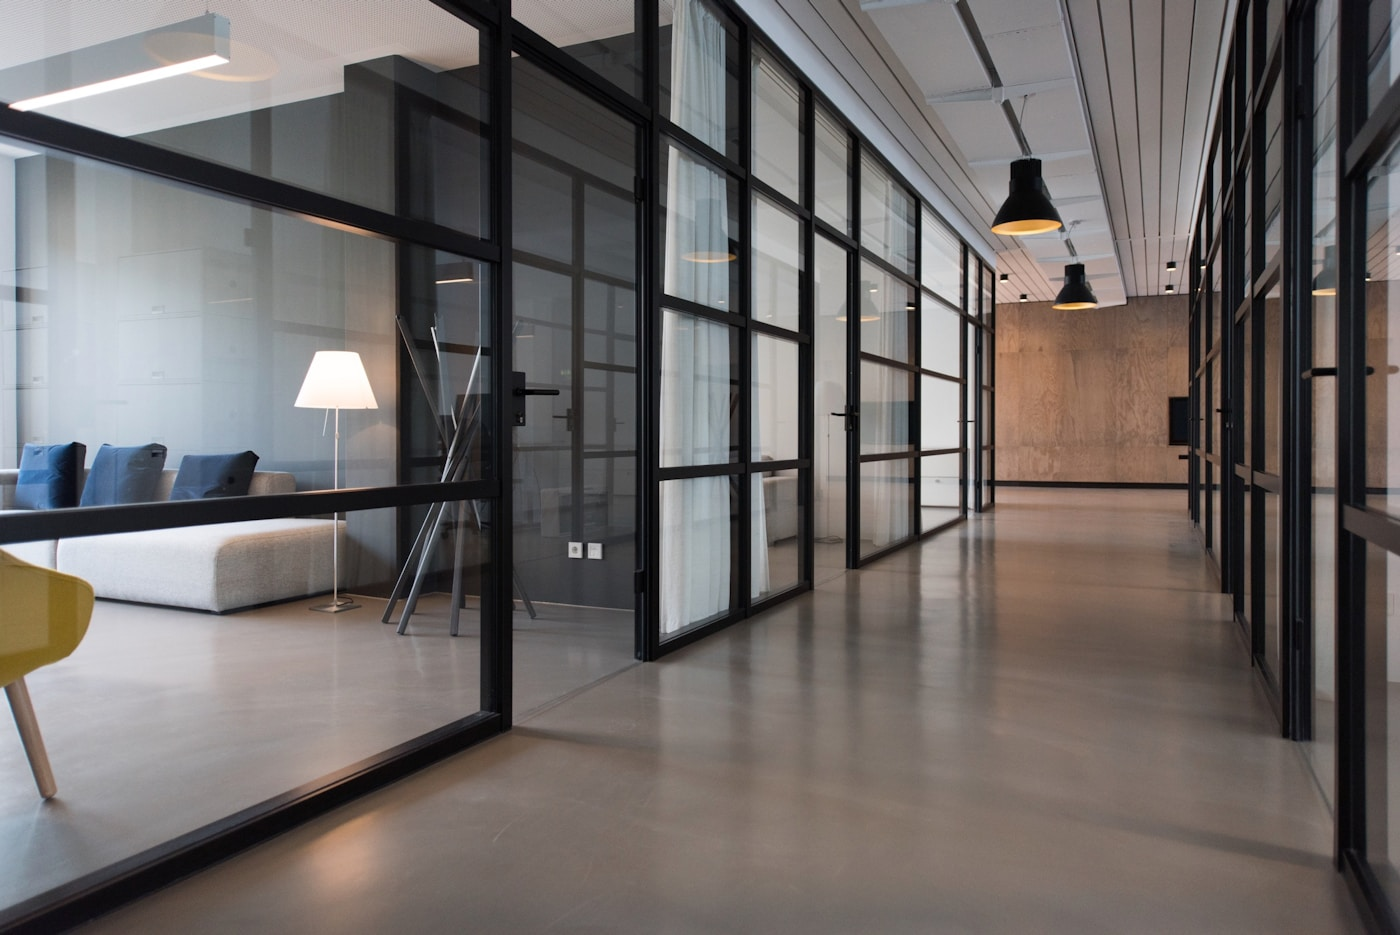
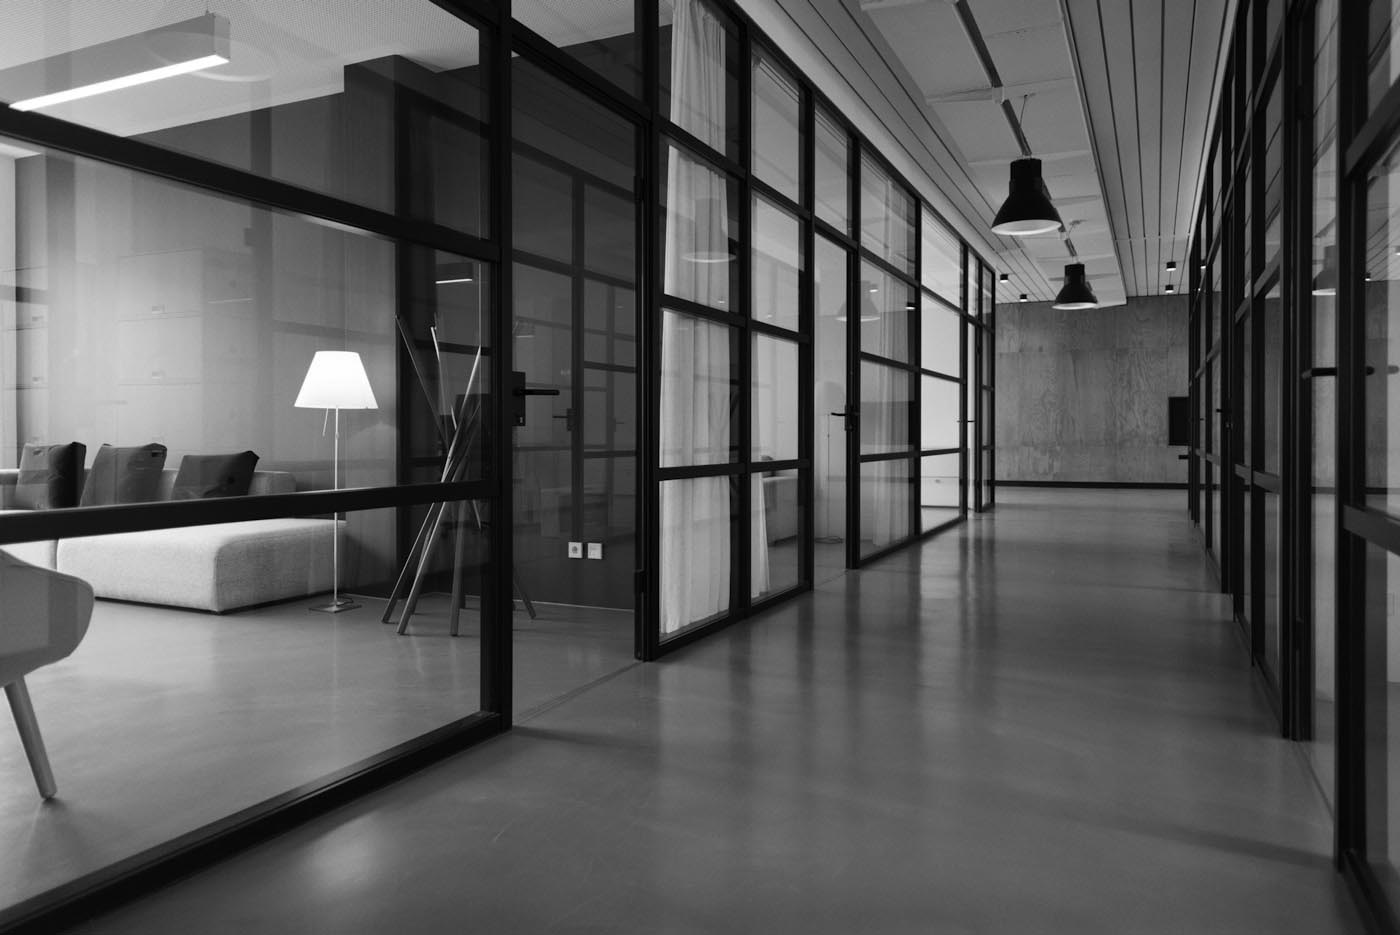
Yet more changes

diff --git a/styles.css b/styles.css
@@ -158,9 +158,11 @@ button { font-family: inherit; cursor: pointer; border: none; background: none; 
   color: rgba(255,255,255,0.8);
   font-size: 14px;
   font-weight: 500;
-  transition: color var(--transition);
+  padding: 4px 10px;
+  border-radius: 6px;
+  transition: color var(--transition), background var(--transition);
 }
-.nav__links a:hover { color: var(--white); }
+.nav__links a:hover { color: var(--white); background: rgba(255,255,255,0.1); }
 
 .nav__ctas { display: flex; gap: 12px; }
 .nav__ctas .btn--outline { border-color: rgba(255,255,255,0.4); padding: 8px 20px; font-size: 13px; }
@@ -345,7 +347,7 @@ button { font-family: inherit; cursor: pointer; border: none; background: none; 
   background-image: url('images/open-office.jpg');
   background-size: cover;
   background-position: center;
-  opacity: 0.06;
+  opacity: 0.1;
 }
 
 .value__grid {
@@ -532,6 +534,26 @@ button { font-family: inherit; cursor: pointer; border: none; background: none; 
 /* =============================
    TALENT (SPECIALISMS)
    ============================= */
+.specialisms {
+  position: relative;
+  overflow: hidden;
+}
+
+.specialisms__bg-img {
+  position: absolute;
+  inset: 0;
+  background-image: url('images/team-laptops.jpg');
+  background-size: cover;
+  background-position: center;
+  opacity: 0.1;
+  z-index: 0;
+}
+
+.specialisms .container {
+  position: relative;
+  z-index: 1;
+}
+
 .specialisms__grid {
   display: grid;
   grid-template-columns: repeat(3, 1fr);
@@ -564,7 +586,10 @@ button { font-family: inherit; cursor: pointer; border: none; background: none; 
 }
 .specialism:hover .specialism__img img { transform: scale(1.05); }
 
-.specialism__body { padding: 24px; }
+.specialism__body { 
+  padding: 24px; 
+  background-color: white;
+}
 
 .specialism__icon {
   width: 44px;
@@ -667,7 +692,7 @@ button { font-family: inherit; cursor: pointer; border: none; background: none; 
   background-image: url('images/modern-office.jpg');
   background-size: cover;
   background-position: center;
-  opacity: 0.05;
+  opacity: 0.1;
 }
 
 .process__inner {
@@ -760,15 +785,6 @@ button { font-family: inherit; cursor: pointer; border: none; background: none; 
 .contact {
   position: relative;
   overflow: hidden;
-}
-
-.contact__bg-img {
-  position: absolute;
-  inset: 0;
-  background-image: url('images/team-laptops.jpg');
-  background-size: cover;
-  background-position: center;
-  opacity: 0.04;
 }
 
 .contact__inner {

diff --git a/index.html b/index.html
@@ -224,6 +224,7 @@
 
   <!-- TALENT -->
   <section class="specialisms section" id="specialisms">
+    <div class="specialisms__bg-img"></div>
     <div class="container">
       <div class="section__label">Our Focus Areas</div>
       <h2 class="section__title">Specialist talent across the data ecosystem</h2>
@@ -393,7 +394,6 @@
 
   <!-- CONTACT / CTA -->
   <section class="contact section section--dark" id="contact">
-    <div class="contact__bg-img"></div>
     <div class="container contact__inner" style="position:relative;z-index:1;">
       <div class="contact__left">
         <div class="section__label section__label--light">Get in Touch</div>
